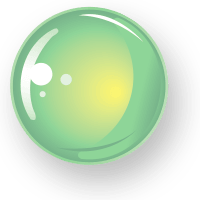
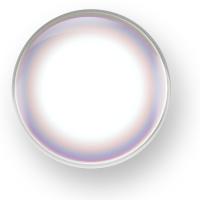
Bubbles updated

diff --git a/public/assets/css/styles.css b/public/assets/css/styles.css
@@ -901,7 +901,7 @@ footer {
 
 .bubble {
   position: absolute;
-  opacity: 0.6; }
+  opacity: 0.4; }
   .bubble.xlarge {
     width: 250px;
     height: 250px;

diff --git a/public/assets/scss/_parallax-bubbles.scss b/public/assets/scss/_parallax-bubbles.scss
@@ -19,7 +19,7 @@
 
 .bubble {
 	position: absolute;
-	opacity: .6;
+	opacity: .4;
 	&.xlarge {
 		width: 250px;
 		height: 250px;
